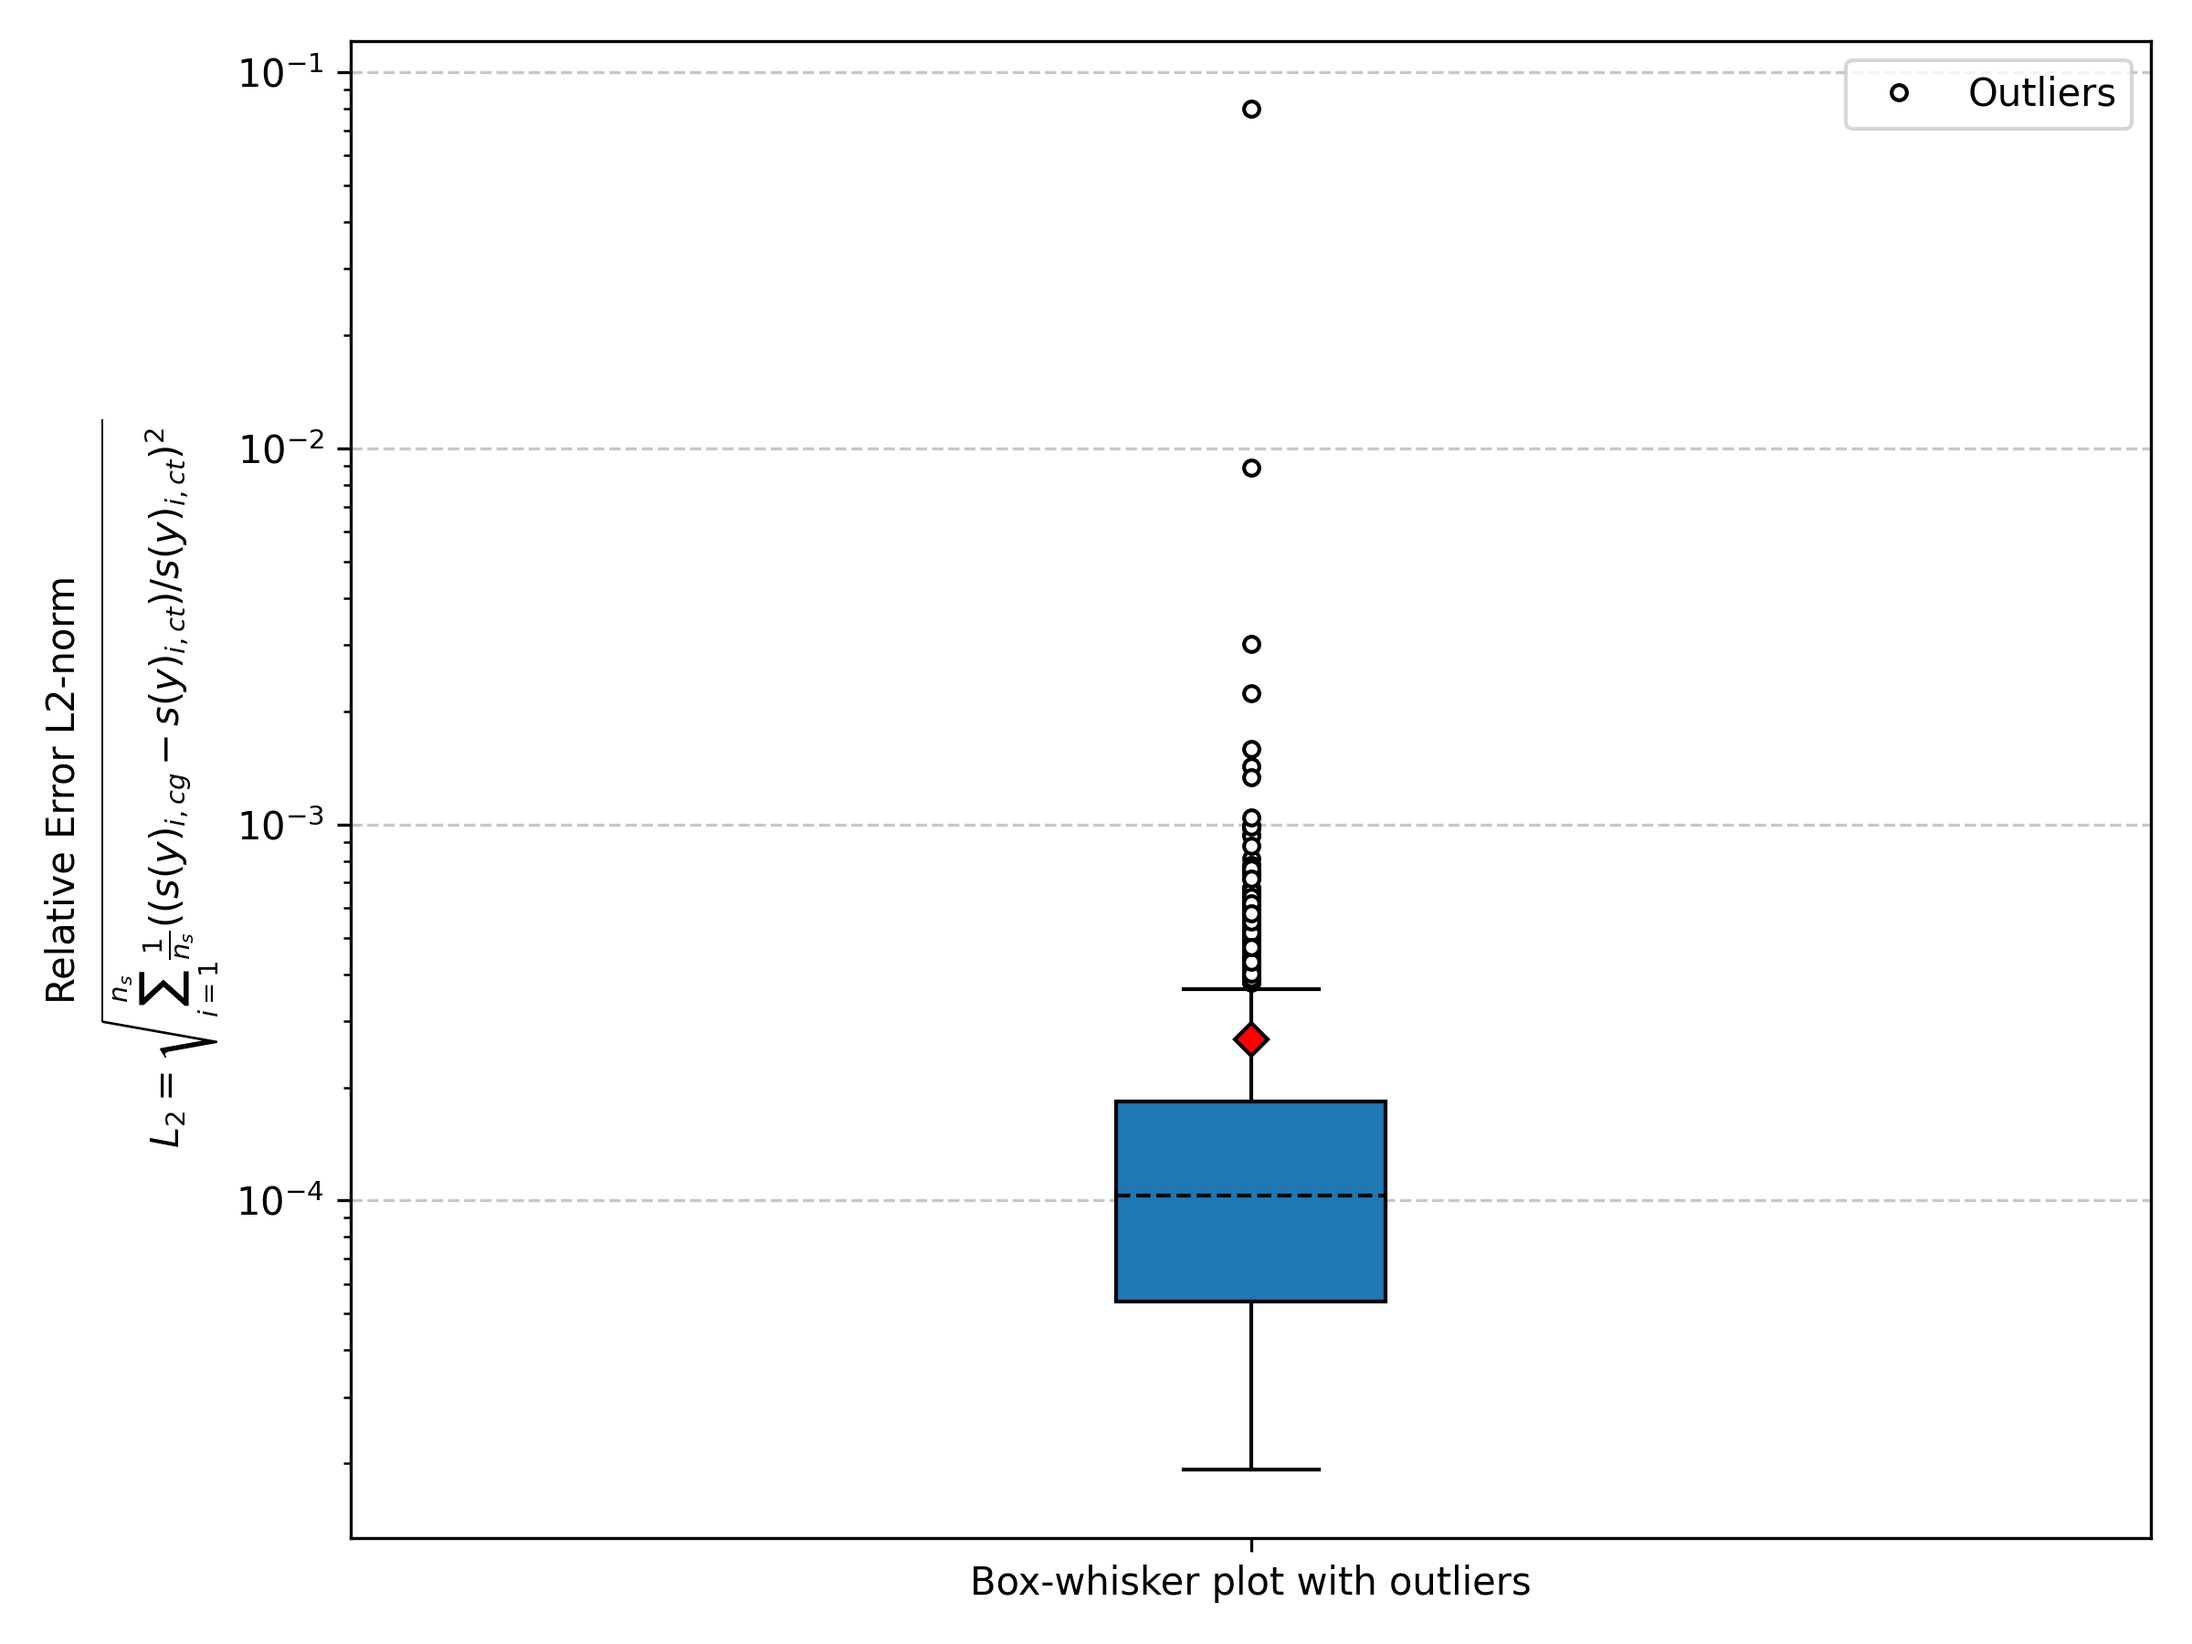
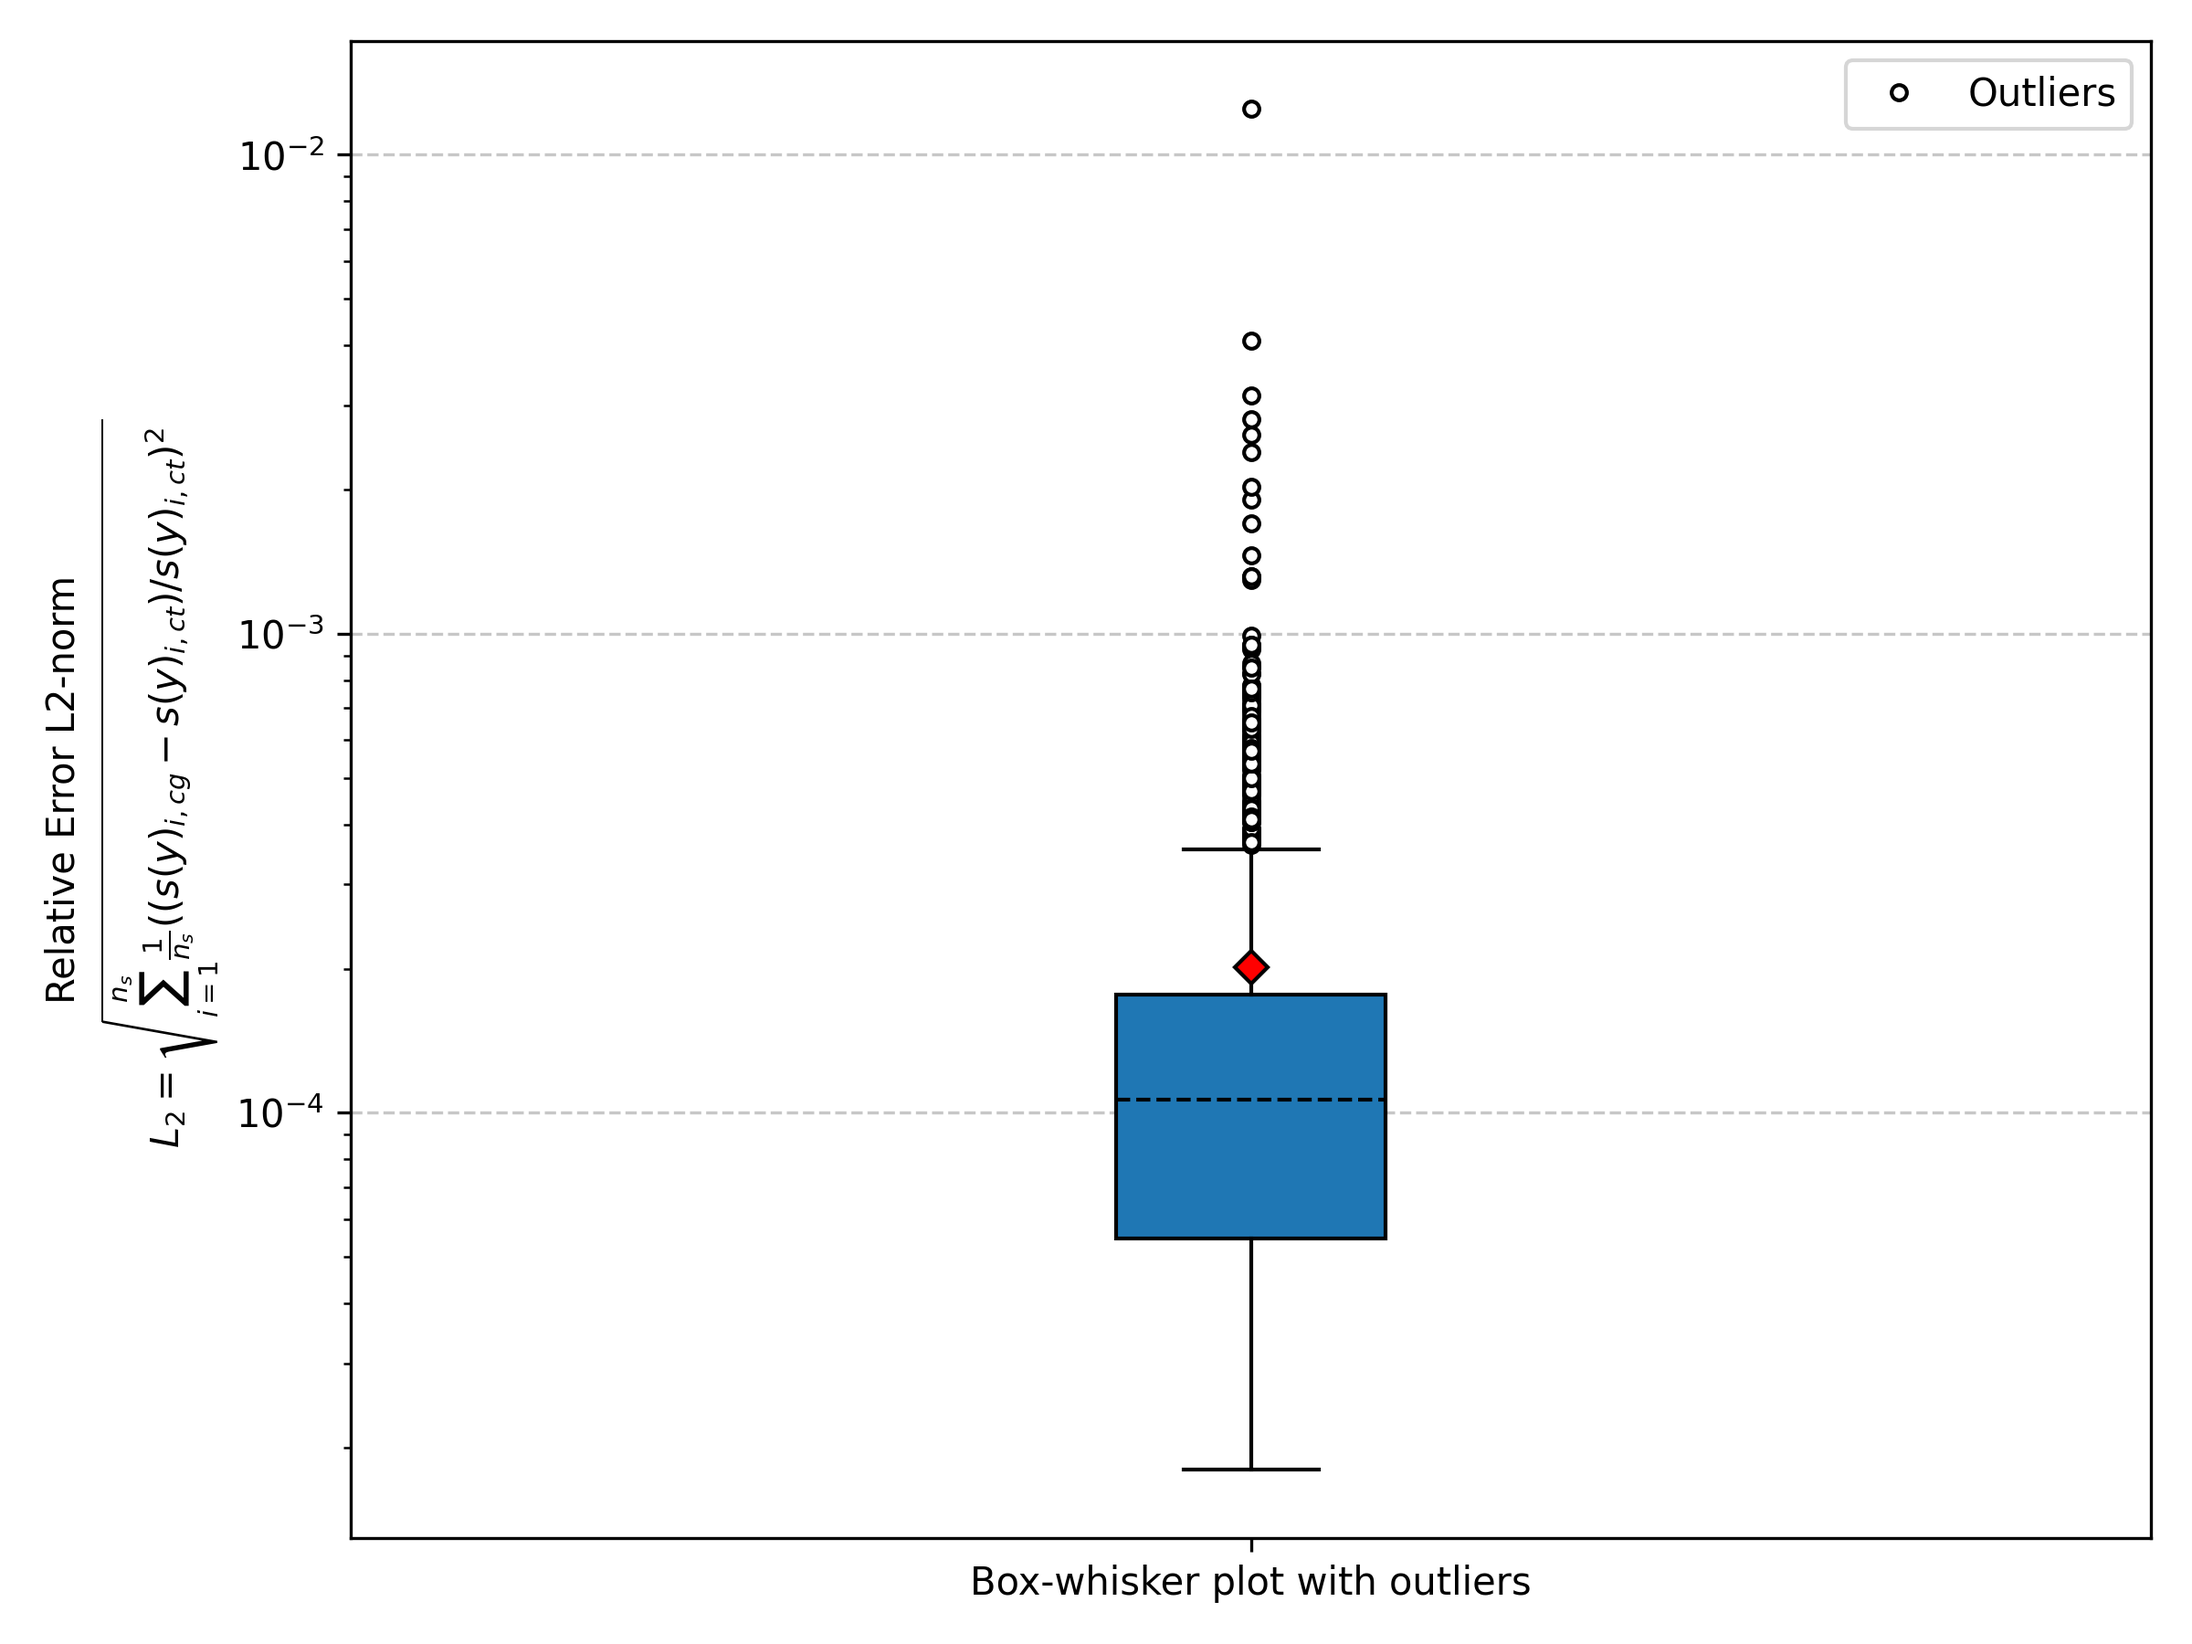
update tutorial 2

diff --git a/tutorial/02_chemgen_error_assessment/custom_test.py b/tutorial/02_chemgen_error_assessment/custom_test.py
@@ -218,7 +218,7 @@ void write_states({species_parameter} concentrations, {scalar_parameter} tempera
     // Process each point
     for ({index} i = 0; i < n_points; i++)
     {{
-        {species} result = source((*concentration_tests)[i], (*temperatures)[i]);
+        {species} result = source_species((*concentration_tests)[i], (*temperatures)[i]);
         write_states((*concentration_tests)[i], (*temperatures)[i], states);
         l2_norm((*temperatures)[i], result, (*cantera_sources)[i], (*concentration_tests)[i], file);
     }}
